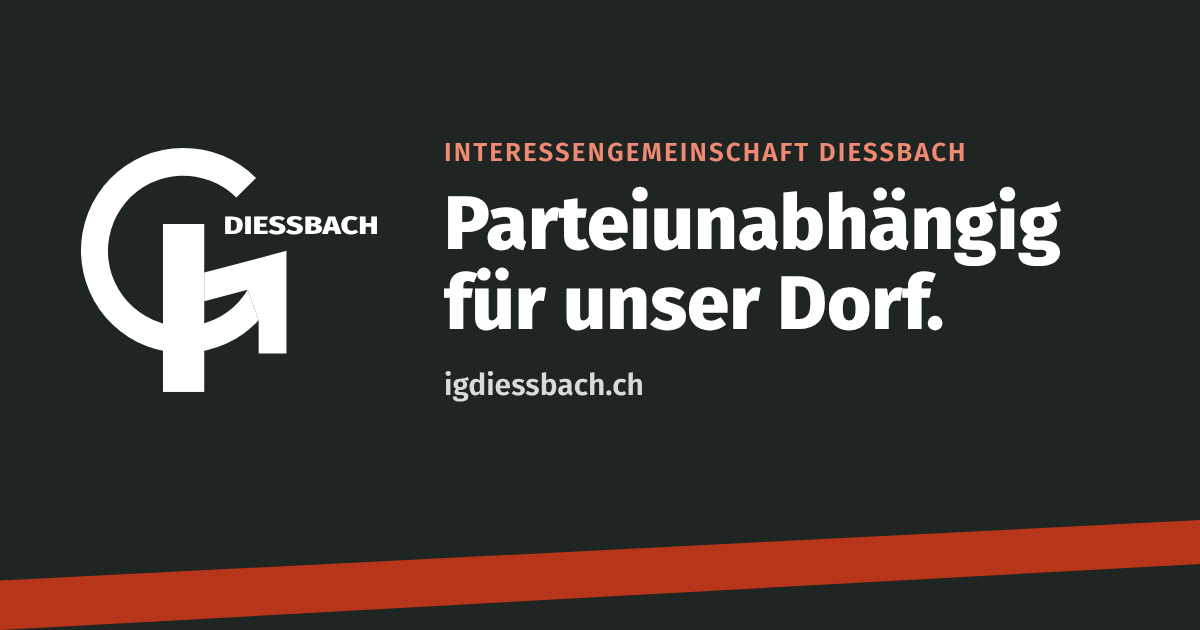
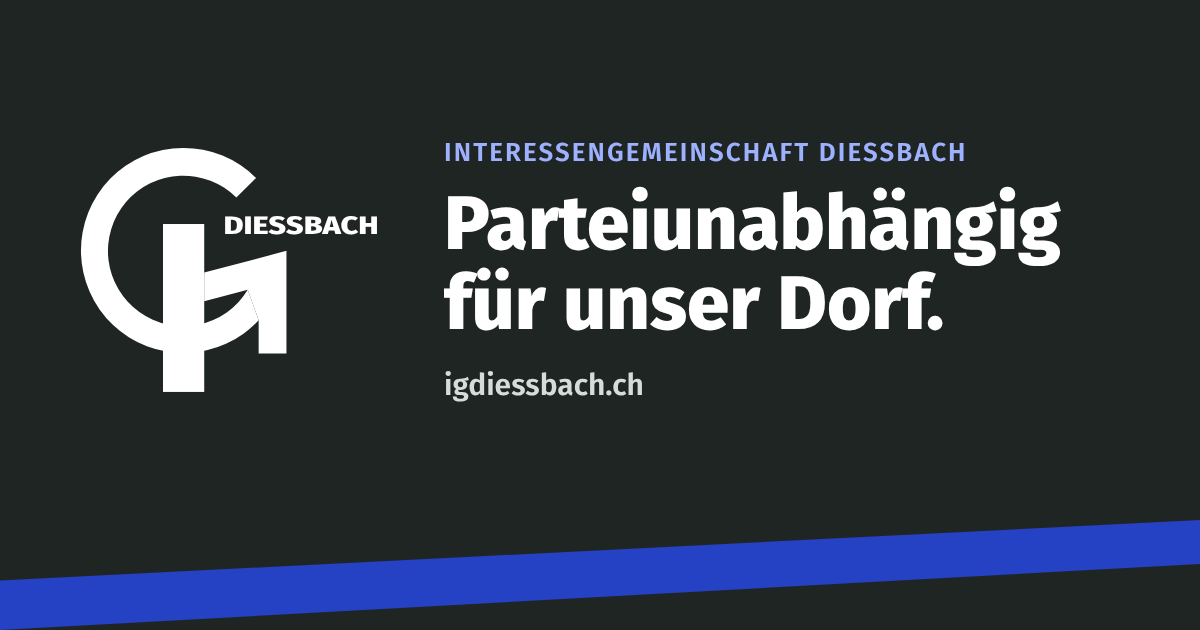
Hauptfarbe Blau statt Rot
Das Logo-Blau ist die Vereinsfarbe der IGD und grenzt sie von der SP
(traditionell rot) ab. Rot war nur die Farbe der Wahlkampagne 2026.
- Farb-Tokens umbenannt (--igd-primaer usw.), alle Rot-Werte ersetzt
- Favicons und WhatsApp-Vorschaubild neu erzeugt
- Empfehlung «Nein» behält ein eigenes Rot, Platzhalter neu orange
- Entscheide im Briefing (Kap. 14) nachgetragen

Claude-Session: https://claude.ai/code/session_01AvRukhPMtTugyZrNgYVtMe

Changed region(s): [[0.0, 0.8143, 1.0, 1.0], [0.37, 0.2111, 0.8017, 0.2714]]

diff --git a/src/styles/global.css b/src/styles/global.css
@@ -4,16 +4,19 @@
    ========================================================================== */
 
 :root {
-  /* Farben */
-  --igd-rot: #B73518;        /* Hauptfarbe, Wappenrot (diessbach.ch) */
-  --igd-rot-hell: #D64130;   /* Akzent / Hover – an Kampagnen-Originaldatei abgleichen */
-  --igd-rot-dunkel: #9A2C13; /* Hover auf Rot (Kontrast) */
+  /* Farben – Entscheid 1.11.2026: Hauptfarbe ist das Blau aus dem Logo
+     (Vereinsfarbe, Abgrenzung zur SP). Rot der Wahlkampagne 2026 entfällt. */
+  --igd-primaer: #2541C4;         /* Logo-Blau: Knöpfe, Links, Schrägband */
+  --igd-primaer-hell: #3D5BE0;    /* Fokus-Rahmen, Akzente */
+  --igd-primaer-dunkel: #1A2F94;  /* Hover auf Blau */
+  --igd-akzent-dunkelgrund: #9DB1FF; /* helles Blau für Text auf Anthrazit */
   --igd-anthrazit: #1F2523;  /* Text dunkel, dunkle Flächen */
   --igd-grau: #5B6260;       /* Sekundärtext */
   --igd-linie: #DEDAD2;      /* Trennlinien, Rahmen */
   --igd-hell: #F5F3EF;       /* Hintergrundflächen, warmes Hellgrau */
   --igd-weiss: #FFFFFF;
-  --igd-blau: #2541C4;       /* NUR im Logo verwenden */
+  --igd-ja: #2E7D4F;         /* Empfehlung Ja */
+  --igd-nein: #B3261E;       /* Empfehlung Nein */
 
   /* Schrift */
   --font: 'Fira Sans', system-ui, -apple-system, 'Segoe UI', Roboto, sans-serif;
@@ -73,11 +76,11 @@ h4 { font-size: 1.125rem; }
 p, ul, ol { margin: 0 0 1em; }
 p { text-wrap: pretty; }
 
-a { color: var(--igd-rot); text-underline-offset: 0.18em; text-decoration-thickness: 1px; }
+a { color: var(--igd-primaer); text-underline-offset: 0.18em; text-decoration-thickness: 1px; }
 a:hover { text-decoration-thickness: 2px; }
 
 :focus-visible {
-  outline: 3px solid var(--igd-rot-hell);
+  outline: 3px solid var(--igd-primaer-hell);
   outline-offset: 3px;
   border-radius: 2px;
 }
@@ -105,10 +108,10 @@ strong { font-weight: 600; }
   font-weight: 600;
   letter-spacing: 0.08em;
   text-transform: uppercase;
-  color: var(--igd-rot);
+  color: var(--igd-primaer);
   margin-bottom: 0.75rem;
 }
-.section--dunkel .dachzeile { color: #F08A73; }
+.section--dunkel .dachzeile { color: var(--igd-akzent-dunkelgrund); }
 
 .lead { font-size: 1.25rem; color: var(--igd-grau); }
 .section--dunkel .lead { color: #D7DBD9; }
@@ -151,8 +154,8 @@ strong { font-weight: 600; }
 
 /* Platzhalter-Hinweis (wird vor dem Go-live entfernt) */
 .platzhalter {
-  border: 2px dashed var(--igd-rot-hell);
-  background: #FDF1EE;
+  border: 2px dashed #C2410C;
+  background: #FFF4E5;
   color: var(--igd-anthrazit);
   border-radius: var(--radius);
   padding: 1rem 1.25rem;
@@ -165,7 +168,7 @@ strong { font-weight: 600; }
   font-size: 0.75rem;
   letter-spacing: 0.08em;
   text-transform: uppercase;
-  color: var(--igd-rot);
+  color: #9A3412;
   margin-bottom: 0.25rem;
 }
 
@@ -188,10 +191,10 @@ strong { font-weight: 600; }
   transition: background-color 0.15s, color 0.15s, border-color 0.15s;
 }
 .knopf--klein { min-height: 2.75rem; padding: 0.5rem 1.1rem; font-size: 1rem; }
-.knopf--primaer { background: var(--igd-rot); color: var(--igd-weiss); }
-.knopf--primaer:hover { background: var(--igd-rot-dunkel); color: var(--igd-weiss); }
-.knopf--sekundaer { background: transparent; color: var(--igd-rot); border-color: var(--igd-rot); }
-.knopf--sekundaer:hover { background: var(--igd-rot); color: var(--igd-weiss); }
+.knopf--primaer { background: var(--igd-primaer); color: var(--igd-weiss); }
+.knopf--primaer:hover { background: var(--igd-primaer-dunkel); color: var(--igd-weiss); }
+.knopf--sekundaer { background: transparent; color: var(--igd-primaer); border-color: var(--igd-primaer); }
+.knopf--sekundaer:hover { background: var(--igd-primaer); color: var(--igd-weiss); }
 .knopf--hell { background: transparent; color: var(--igd-weiss); border-color: var(--igd-weiss); }
 .knopf--hell:hover { background: var(--igd-weiss); color: var(--igd-anthrazit); }
 .knopf-reihe { display: flex; flex-wrap: wrap; gap: 0.75rem; }
@@ -215,7 +218,7 @@ strong { font-weight: 600; }
 .karte__titel a::after { content: ''; position: absolute; inset: 0; }
 .karte--link { position: relative; transition: transform 0.15s, box-shadow 0.15s; }
 .karte--link:hover { transform: translateY(-2px); box-shadow: 0 2px 4px rgb(31 37 35 / 0.08), 0 10px 28px rgb(31 37 35 / 0.12); }
-.karte--link:hover .karte__titel a { text-decoration: underline; text-decoration-color: var(--igd-rot); }
-.karte--link:focus-within { outline: 3px solid var(--igd-rot-hell); outline-offset: 3px; }
+.karte--link:hover .karte__titel a { text-decoration: underline; text-decoration-color: var(--igd-primaer); }
+.karte--link:focus-within { outline: 3px solid var(--igd-primaer-hell); outline-offset: 3px; }
 .karte--link a:focus-visible { outline: none; }
-.weiter { font-weight: 600; color: var(--igd-rot); margin-top: auto !important; padding-top: 0.5rem; }
+.weiter { font-weight: 600; color: var(--igd-primaer); margin-top: auto !important; padding-top: 0.5rem; }

diff --git a/docs/IGD-Website-Relaunch-Briefing.md b/docs/IGD-Website-Relaunch-Briefing.md
@@ -406,3 +406,15 @@ Lorenz jeden dieser Schritte in einfachen Worten erklären und Zugangsdaten **ni
 - Einwohnergemeinde Diessbach: https://www.diessbach.ch/ (Farben, Behörden)
 - Wahlergebnisse 25.10.2026: https://www.diessbach.ch/de/online-schalter/mitteilungen/meldungen/gesamterneuerungswahlen-2026-ergebinsse.php
 - Kampagnensujets 2026 (auf der bestehenden Startseite)
+
+---
+
+## 14. Nachträge und Entscheide während der Umsetzung
+
+| Datum | Entscheid |
+|---|---|
+| 1.11.2026 | **Hauptfarbe Blau statt Rot** (ersetzt Kap. 5.2). Blau aus dem Logo (`#2541C4`) ist die Vereinsfarbe und grenzt die IGD von der SP ab, die in der Schweiz traditionell rot auftritt. Rot war nur die Farbe der Wahlkampagne 2026 (abgeleitet vom Gemeindewappen). Anthrazit und Weiss bleiben. |
+| 1.11.2026 | Gründung laut Statuten: **Gründungsversammlung 31.1.2006**. Das Jubiläumsthema (20 Jahre im Jahr 2026 vs. HV 2027) ist vorerst pendent. |
+| 1.11.2026 | Mitgliederbeitrag **CHF 20.– pro Jahr**. Die Postadresse c/o Michaela Rodrigues-Udry darf publiziert werden. |
+| 1.11.2026 | Formulare gehen bis zum Go-live an Lorenz Gerber (Adresse nur in den Netlify-Einstellungen, nicht im Code). CMS-Pflege: Lorenz, Michaela, Helena. |
+| 1.11.2026 | Netlify bleibt für den Prototyp im Gratisabo (keine weiteren Team-Mitglieder). |

diff --git a/README.md b/README.md
@@ -12,7 +12,7 @@ Grundlage: [`docs/IGD-Website-Relaunch-Briefing.md`](docs/IGD-Website-Relaunch-B
 | 3 – Funktionen | Formulare, Anmeldung, .ics, CMS + Logins, täglicher Rebuild | offen |
 | 4–6 | Review, Launch-Vorbereitung, Go-live an der 20. HV (13.5.2027) | offen |
 
-Alles, was noch fehlt, ist auf der Website als roter, gestrichelter Kasten **«Platzhalter»** markiert.
+Alles, was noch fehlt, ist auf der Website als orange gestrichelter Kasten **«Platzhalter»** markiert.
 
 ## Wo ist was?
 
